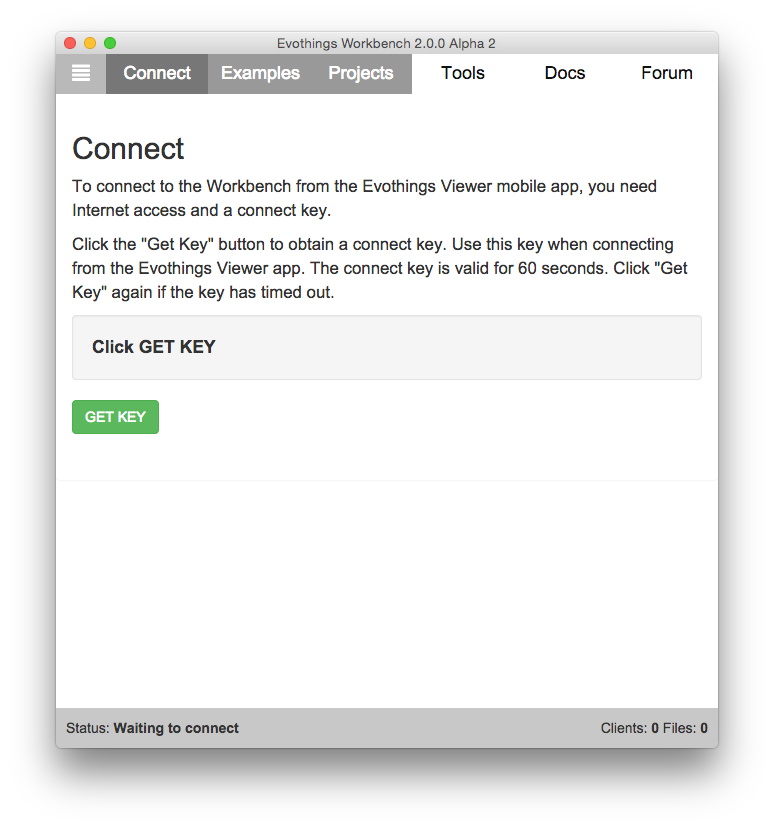
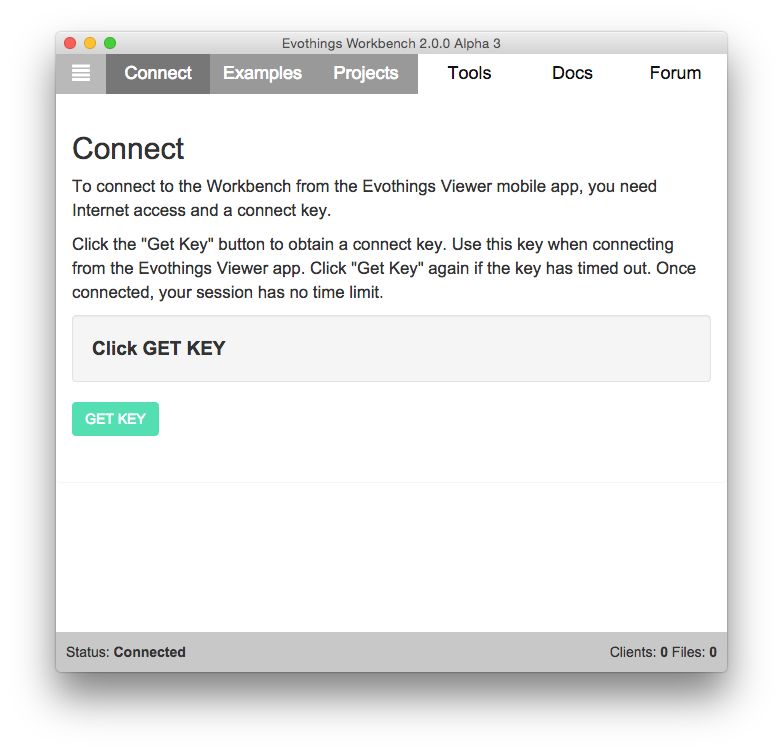
Updated screenshots and releaase notes for Alpha 3.

Changed region(s): [[0.093, 0.1529, 0.8992, 0.5811], [0.062, 0.8258, 0.9302, 0.9176], [0.062, 0.0306, 0.9302, 0.1223]]

diff --git a/index.html b/index.html
@@ -121,6 +121,8 @@ Copyright (c) 2013-2015 Evothings AB
 			github.com/evothings/evothings-doc</a></li>
 		<li>Cordova BLE Plugin: <a href="https://github.com/evothings/cordova-ble">
 			github.com/evothings/cordova-ble</a></li>
+		<li>Cordova Eddystone Plugin: <a href="https://github.com/evothings/cordova-eddystone">
+			github.com/evothings/cordova-eddystone</a></li>
 		<li>Cordova Estimote Plugin: <a href="https://github.com/evothings/phonegap-estimotebeacons">
 			github.com/evothings/phonegap-estimotebeacons</a></li>
 	</ul>

diff --git a/studio/release-notes.html b/studio/release-notes.html
@@ -54,9 +54,10 @@ Copyright (c) 2013-2015 Evothings AB
 
 	<p><b>Evothings Viewer:</b></p>
 	<ul>
-		<li>Supported platforms are iOS and Android.</li>
-		<li>Available on Google Play and Apple AppStore.</li>
+		<li>Available for iOS and Android.</li>
 		<li>User-friendly connect key validation.</li>
+		<li>Improve reload performance.</li>
+		<li>Easily demo and test apps live anywhere in the world by connecting to a remote Workbench or web server.</li>
 	</ul>
 
 	<p><b>Examples and libraries:</b></p>
